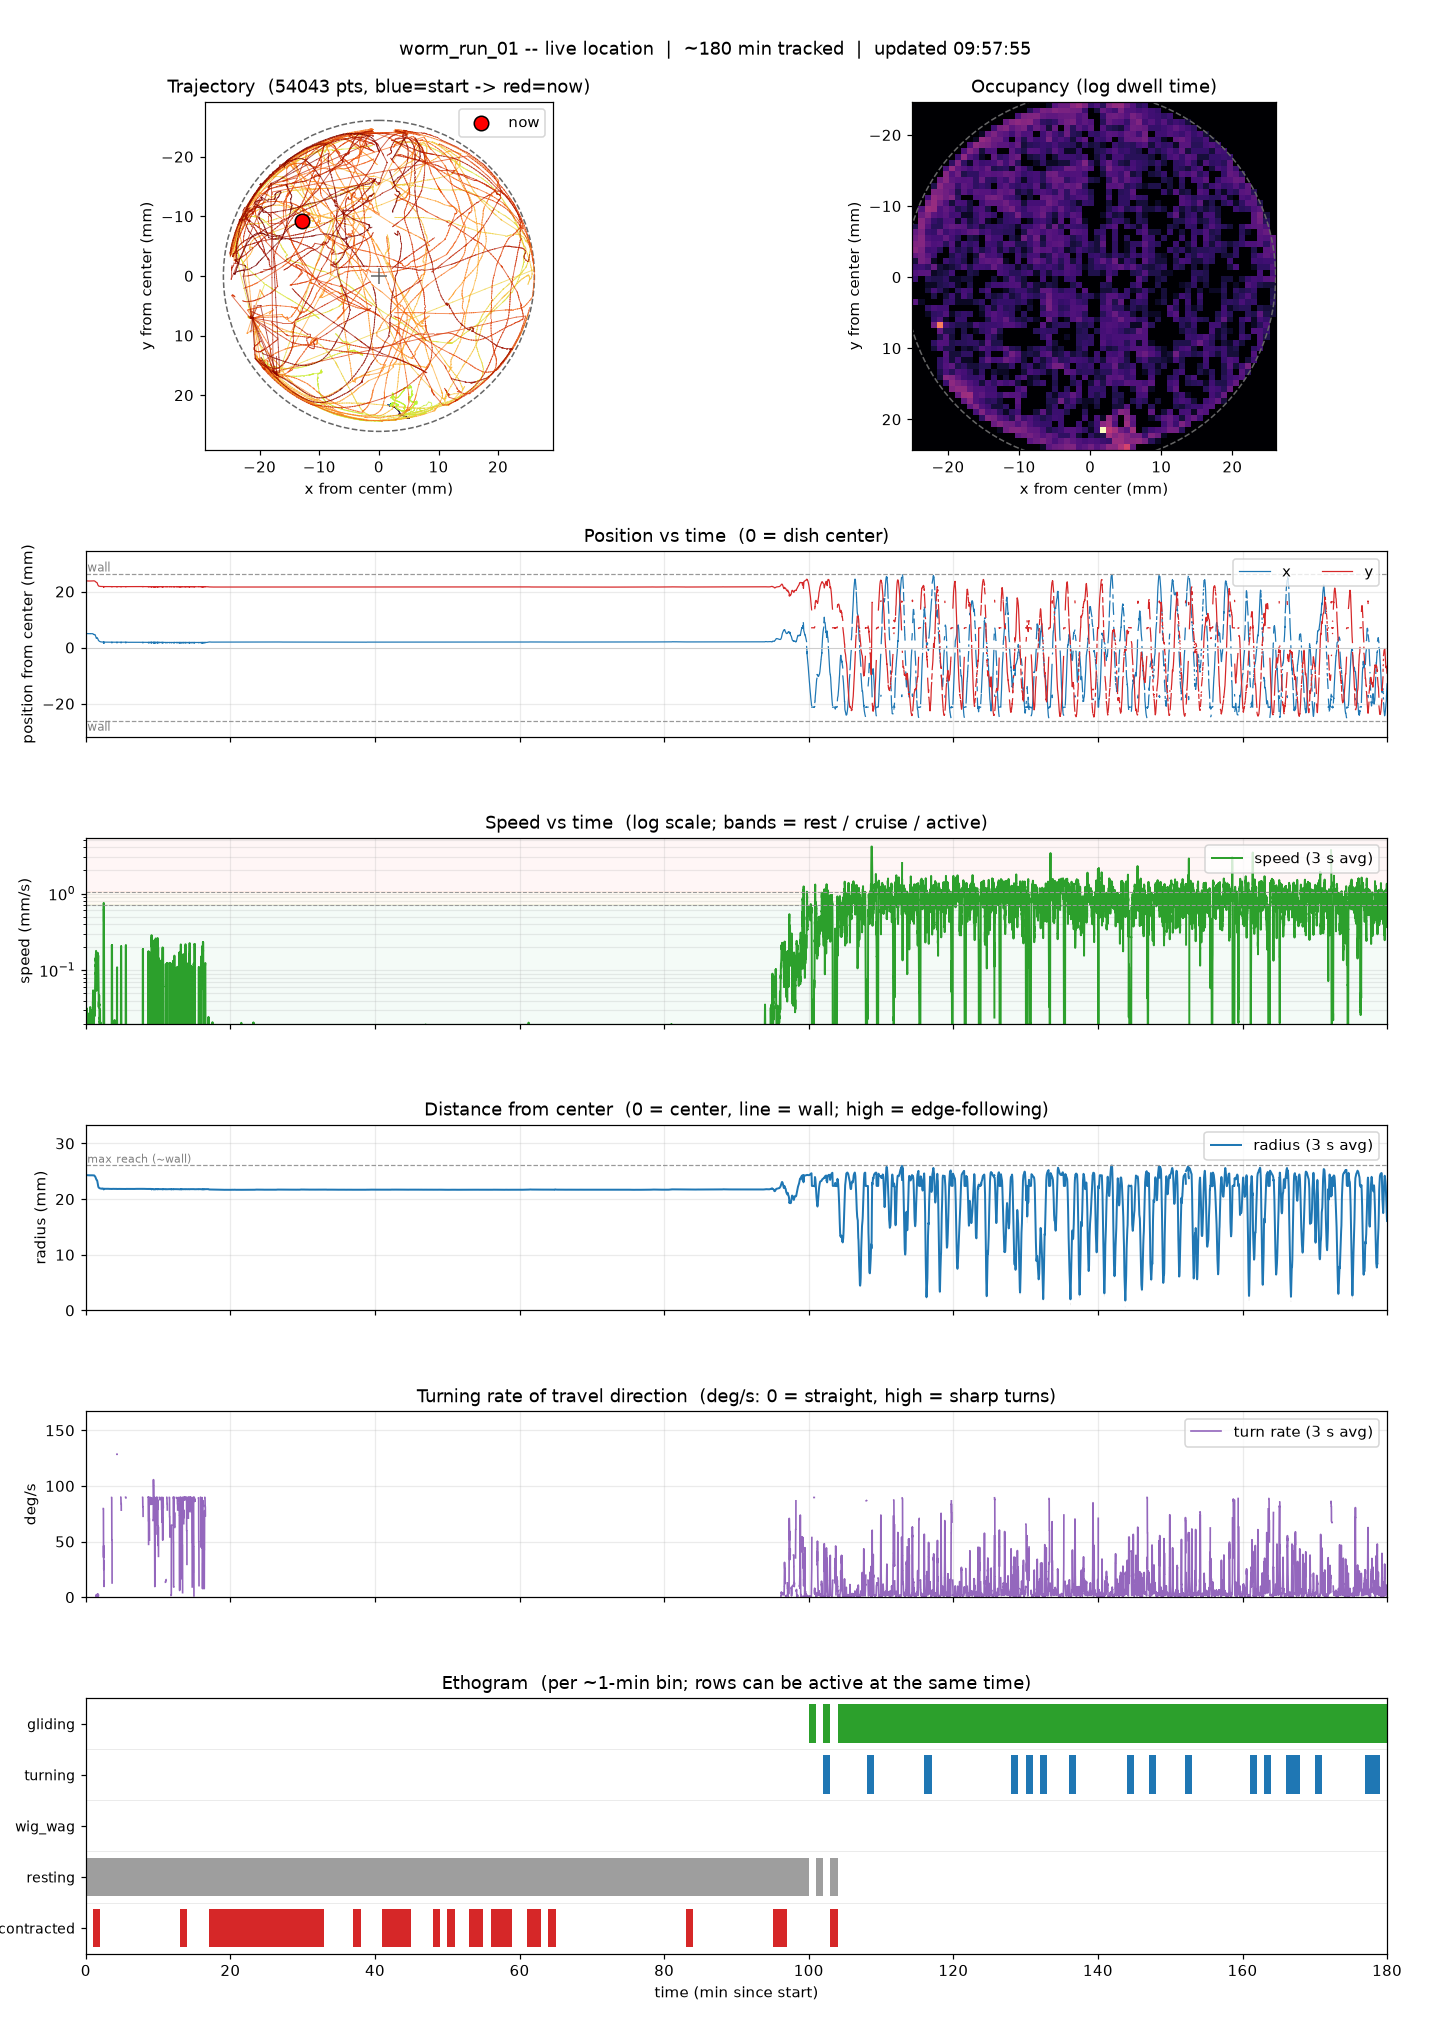
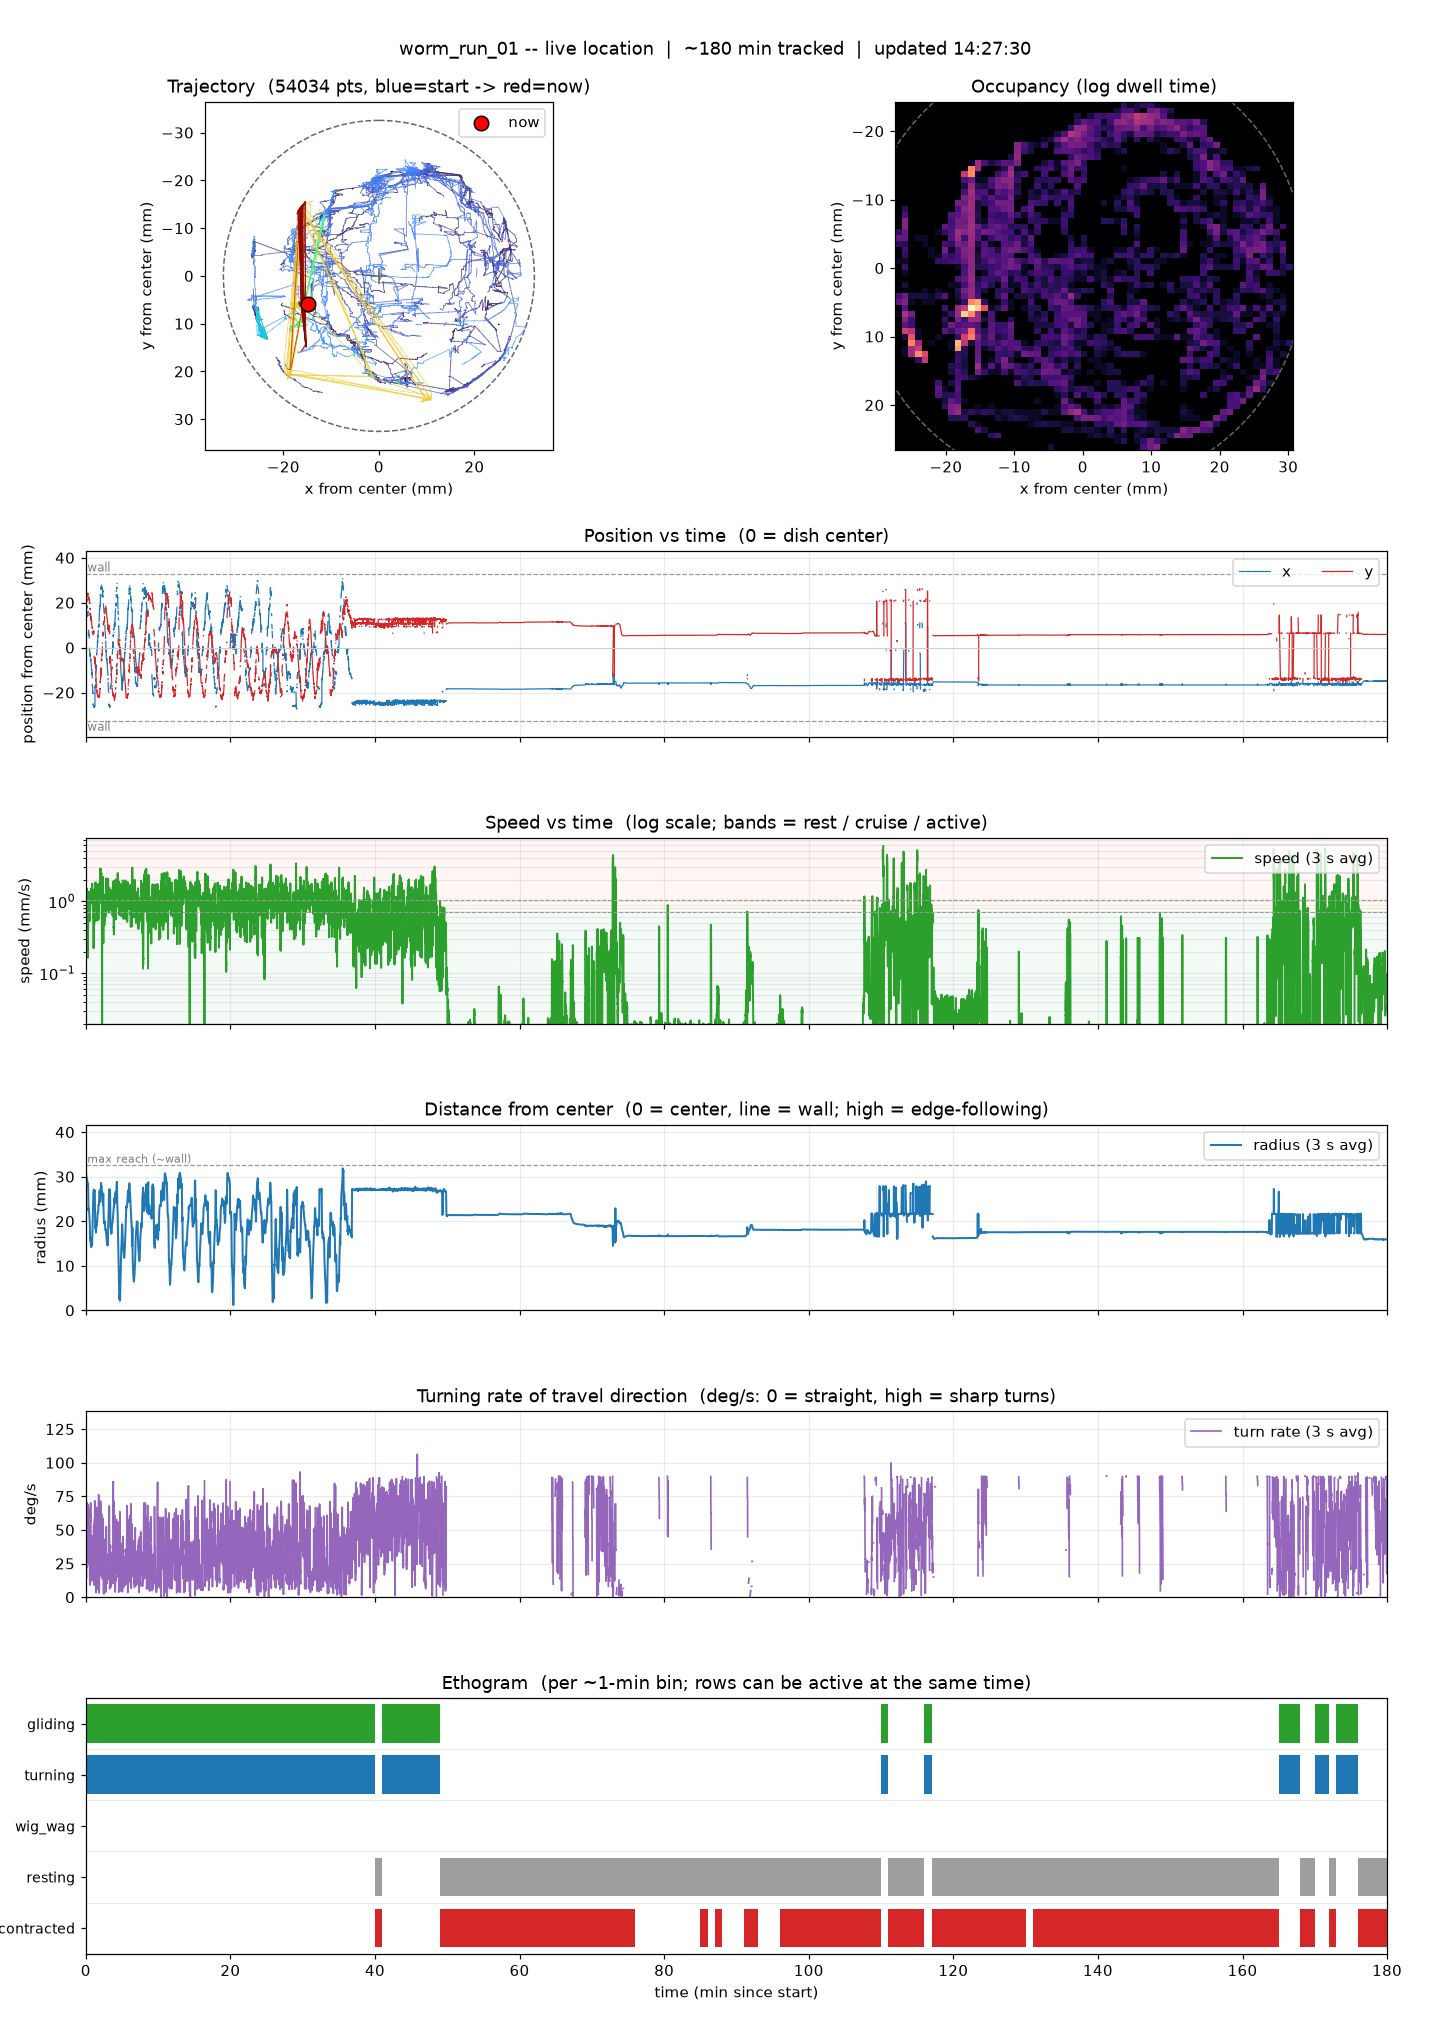
live plot

diff --git a/index.html b/index.html
@@ -5,6 +5,7 @@
   <meta name="viewport" content="width=device-width, initial-scale=1" />
   <title>Planarian Real-Time Behavior Tracking</title>
   <link rel="icon" type="image/svg+xml" href="favicon.svg" />
+  <link href="https://fonts.googleapis.com/css2?family=Orbitron:wght@700;900&display=swap" rel="stylesheet" />
   <style>
     :root { --bg:#0e1116; --panel:#161b22; --fg:#e6edf3; --muted:#8b949e; --accent:#3fb950; }
     * { box-sizing: border-box; }
@@ -75,9 +76,50 @@
              vertical-align:middle; }
     footer { text-align:center; color:var(--muted); font-size:.8rem; padding:8px 16px 32px; }
     a { color:#58a6ff; text-decoration:none; }
+    /* lab-branded top bar (links back to the main lab site; echoes its cyber theme) */
+    .lab-bar { display:flex; align-items:center; gap:14px; flex-wrap:wrap;
+               padding:9px 18px; background:#0a0a0a; border-bottom:2px solid #00ffff; }
+    .lab-brand { display:flex; align-items:center; gap:11px; text-decoration:none; }
+    .lab-brand img { width:40px; height:40px; object-fit:contain; filter:drop-shadow(0 0 8px #00ffff); }
+    .lb-title { font-family:'Orbitron',sans-serif; font-weight:900; font-size:1.02rem; color:#00ffff;
+                text-shadow:0 0 8px rgba(0,255,255,.55); line-height:1.05; letter-spacing:.5px; }
+    .lb-sub { display:block; font-family:'Orbitron',sans-serif; font-weight:700; font-size:.6rem;
+              color:#ff00ff; text-shadow:0 0 8px rgba(255,0,255,.55); letter-spacing:2px; margin-top:2px; }
+    .lab-nav { margin-left:auto; display:flex; gap:3px; flex-wrap:wrap; }
+    .lab-nav a { font-family:'Orbitron',sans-serif; font-size:.7rem; font-weight:700; color:#e6edf3;
+                 padding:5px 9px; border:1px solid transparent; border-radius:4px; transition:all .2s; }
+    .lab-nav a:hover { color:#00ffff; border-color:#00ffff; box-shadow:0 0 8px rgba(0,255,255,.45); }
+    @media (max-width:640px){ .lab-nav{ width:100%; margin:6px 0 0; } }
+    /* model-performance metrics */
+    .metrics { padding:6px 16px 18px; }
+    .metric-group { margin-top:14px; }
+    .metric-group h3 { margin:0 0 2px; font-size:.98rem; color:var(--fg); }
+    .metric-sub { margin:0 0 10px; color:var(--muted); font-size:.8rem; }
+    .stat-row { display:flex; flex-wrap:wrap; gap:10px; }
+    .stat { background:#0e1116; border:1px solid #21262d; border-radius:8px;
+            padding:10px 14px; min-width:104px; flex:1 1 104px; }
+    .stat .num { display:block; font-size:1.32rem; font-weight:700; color:var(--accent); }
+    .stat .lbl { display:block; color:var(--muted); font-size:.76rem; margin-top:2px; }
+    .metric-note { margin:10px 2px 0; color:var(--muted); font-size:.8rem; }
+    .metric-foot { margin:16px 2px 0; color:var(--muted); font-size:.78rem; line-height:1.5;
+                   border-top:1px solid #21262d; padding-top:10px; }
   </style>
 </head>
 <body>
+  <header class="lab-bar">
+    <a class="lab-brand" href="https://www.behavioral-data-science.org/"
+       title="Behavioral Data Science Research Lab">
+      <img src="pliny.png" alt="Pliny the Pigeon" />
+      <span class="lb-title">BEHAVIORAL DATA SCIENCE<span class="lb-sub">RESEARCH LAB</span></span>
+    </a>
+    <nav class="lab-nav">
+      <a href="https://www.behavioral-data-science.org/">HOME</a>
+      <a href="https://www.behavioral-data-science.org/about.html">ABOUT</a>
+      <a href="https://www.behavioral-data-science.org/projects.html">PROJECTS</a>
+      <a href="https://www.behavioral-data-science.org/publications.html">PUBLICATIONS</a>
+    </nav>
+  </header>
+
   <header>
     <h1>Planarian Real-Time Behavior Tracking</h1>
     <p>A live look at a single planarian flatworm in its dish. The stream below is the raw rig;
@@ -240,11 +282,44 @@
           the plot here - so the data trails the video by about 3 minutes.</p>
       </div>
     </div>
+
+    <div class="card">
+      <h2>How well do the models perform?</h2>
+      <div class="metrics">
+        <div class="metric-group">
+          <h3>Location tracking</h3>
+          <p class="metric-sub">YOLO detector + temporal cleanup, scored against 200 hand-labeled frames.</p>
+          <div class="stat-row">
+            <div class="stat"><span class="num">0.68 mm</span><span class="lbl">median error</span></div>
+            <div class="stat"><span class="num">1.57 mm</span><span class="lbl">90th percentile</span></div>
+            <div class="stat"><span class="num">3.66 mm</span><span class="lbl">worst case</span></div>
+            <div class="stat"><span class="num">100%</span><span class="lbl">within 5 mm</span></div>
+          </div>
+          <p class="metric-note">For scale, the dish is about 50 mm across &mdash; a typical error is roughly 1% of the arena.</p>
+        </div>
+        <div class="metric-group">
+          <h3>Behavior classification</h3>
+          <p class="metric-sub">5-class model, leave-one-out cross-validation (F1 per behavior; 1.0 is perfect).</p>
+          <div class="stat-row">
+            <div class="stat"><span class="num">0.84</span><span class="lbl">overall (macro-F1)</span></div>
+            <div class="stat"><span class="num">0.92</span><span class="lbl">gliding</span></div>
+            <div class="stat"><span class="num">0.89</span><span class="lbl">contracted</span></div>
+            <div class="stat"><span class="num">0.86</span><span class="lbl">resting</span></div>
+            <div class="stat"><span class="num">0.86</span><span class="lbl">turning</span></div>
+            <div class="stat"><span class="num">0.65</span><span class="lbl">wig-wag</span></div>
+          </div>
+        </div>
+        <p class="metric-foot">Numbers are from held-out evaluation on this rig's footage. On the live plot,
+          the locomotion states (gliding / resting / turning) are read directly from the worm's motion, while
+          the model supplies the postural calls (contracted, wig-wag).</p>
+      </div>
+    </div>
   </div>
 
   <footer>
     Built with a YOLO-based tracker running on-device. Plot image refreshes automatically;
-    reload the page if the stream goes idle.
+    reload the page if the stream goes idle.<br>
+    A project of the <a href="https://www.behavioral-data-science.org/">Behavioral Data Science Research Lab</a>.
   </footer>
 
   <script>